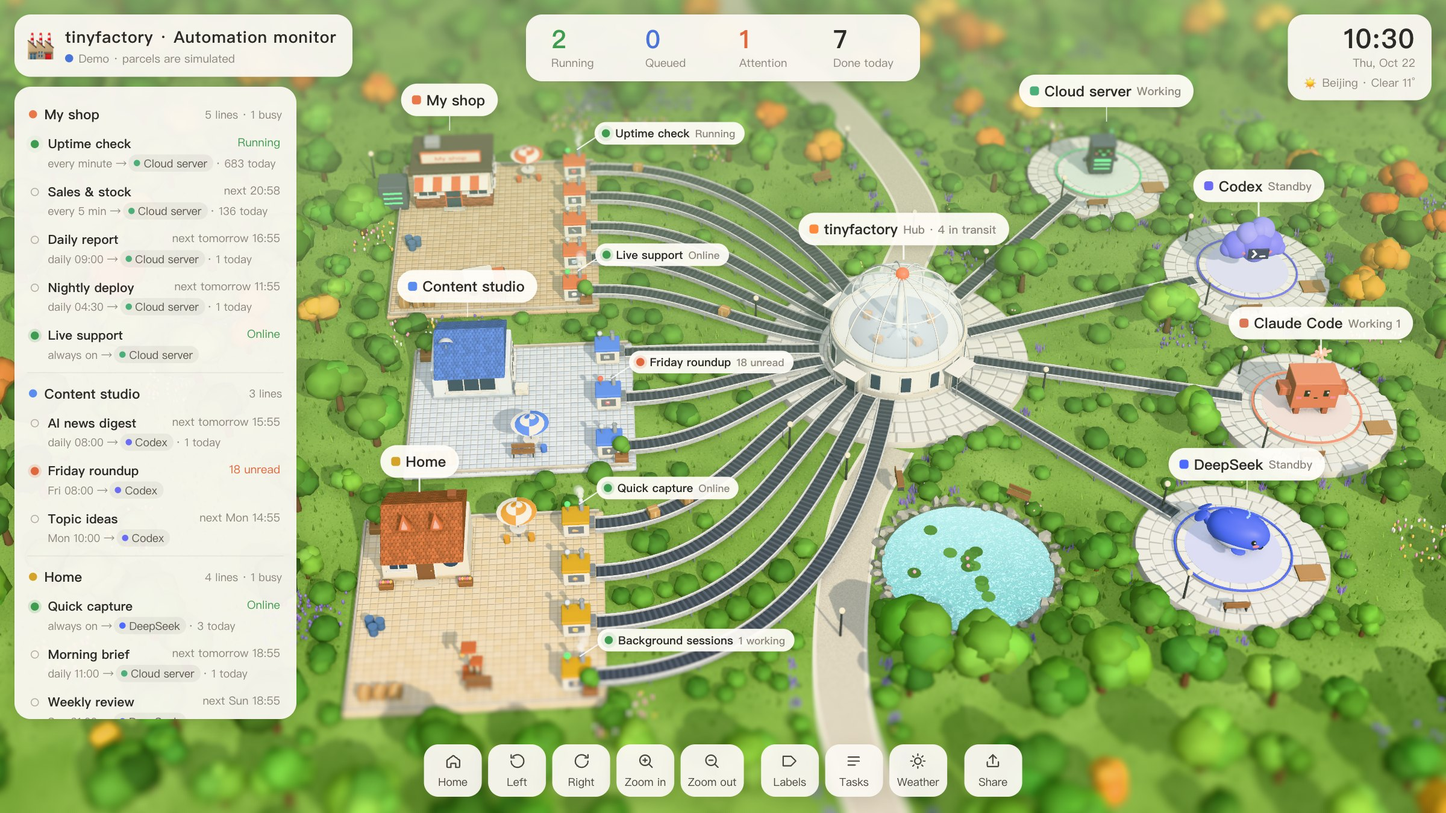
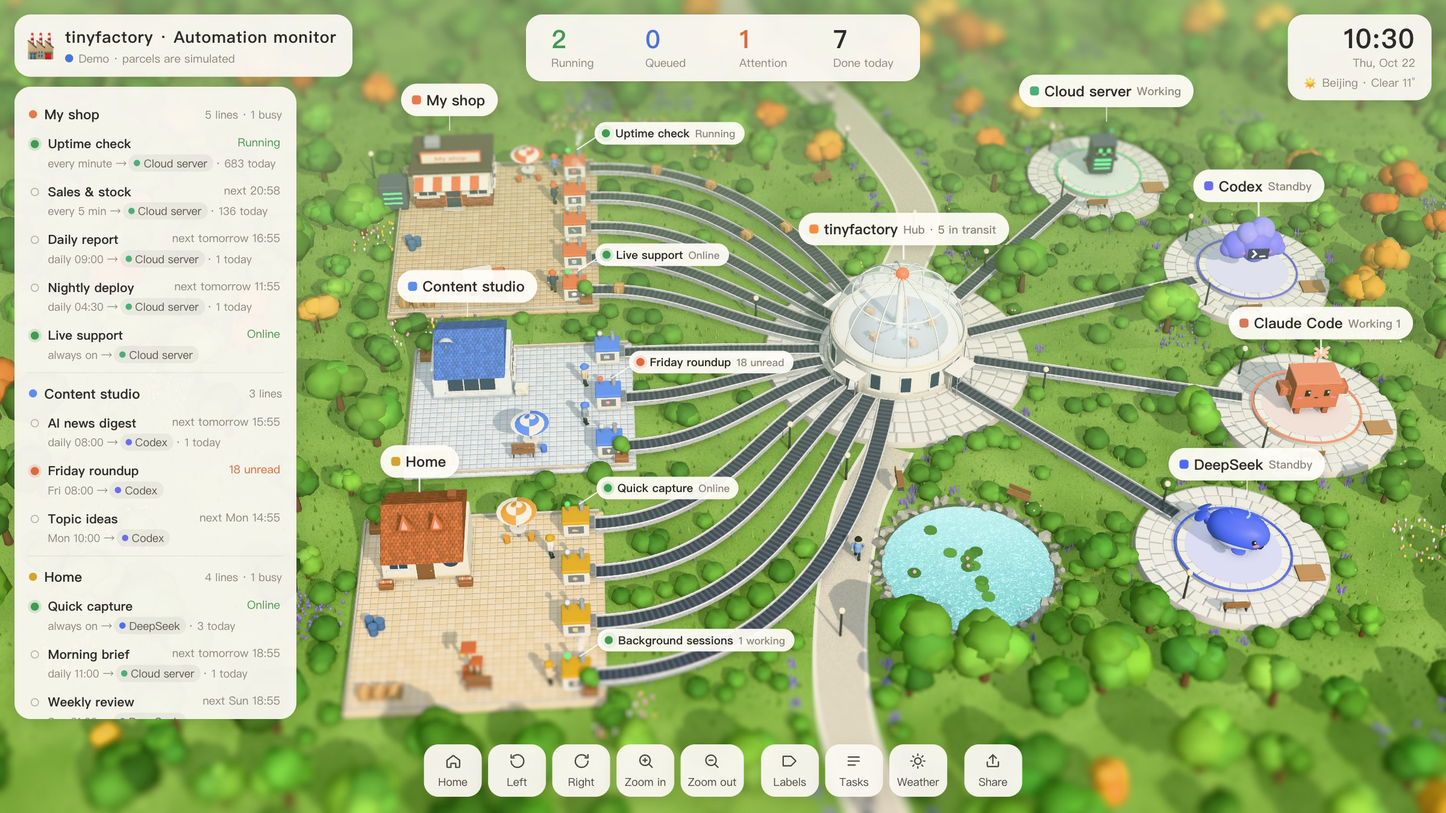
README: workers, labels, pinch zoom; media re-recorded

diff --git a/README.md b/README.md
@@ -115,8 +115,10 @@ ssh -N -L 4525:127.0.0.1:4520 you@your-server
 
 - **真实的时间和天气**：太阳按你所在城市的经纬度走，晚上路灯和窗户会亮；下雨下雪会同步到场景里（天气来自 [Open-Meteo](https://open-meteo.com/)）。右上角可以切城市，也可以预览傍晚、夜晚、雪夜。
 - **看得懂的状态**：绿灯运行中，红灯需留意（连续失败、停摆、结果没人看），空心是在等下次运行。
+- **有人在干活**：每个工厂院子里有戴安全帽的工人，产线跑一次，工人就走到那台机器前操作；一直在跑的产线旁边始终有人守着。agent 们会眨眼，干活时会动起来。
+- **名牌三档**：默认只给运行中、在线和需留意的产线挂名牌，点「名牌」切到全部，再点关闭。
 - **分享**：底部「分享」按钮把当前画面存成图片。
-- **拖动旋转、右键平移、滚轮缩放**，点左侧任意一条产线，镜头会飞过去。
+- **拖动旋转、右键平移、滚轮缩放**，手机上双指缩放；点左侧任意一条产线，镜头会飞过去。
 
 | 傍晚 | 雪夜 |
 |---|---|

diff --git a/README.en.md b/README.en.md
@@ -103,8 +103,10 @@ Line ids look like `source:name` (e.g. `codex:daily-news`, `systemd:backup`).
 
 - **Real time and weather** for your city: the sun moves, lamps and windows light up at night, rain and snow follow the real sky ([Open-Meteo](https://open-meteo.com/)). Switch cities or preview dusk / night / snowy night from the top-right card.
 - **Readable status**: green = running, red = needs attention (failing, stalled, unread results), hollow = waiting for its next run.
+- **People at work**: each factory yard has workers in hard hats; when a line runs, one walks over and works the machine, and a line that runs continuously keeps someone beside it. The agents blink and come alive while they work.
+- **Labels in three steps**: by default only lines that are running, online or need attention carry a label; the Labels button switches to all, then off.
 - **Share** saves the current view as a PNG.
-- Drag to rotate, right-drag to pan, scroll to zoom; click a line in the list to fly to it.
+- Drag to rotate, right-drag to pan, scroll or pinch to zoom; click a line in the list to fly to it.
 
 | Dusk | Snowy night |
 |---|---|
